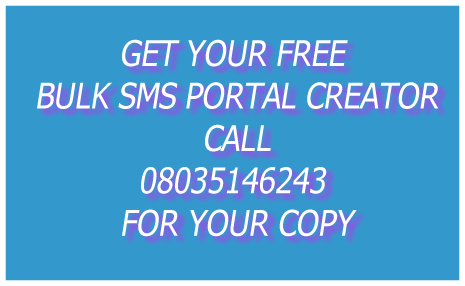
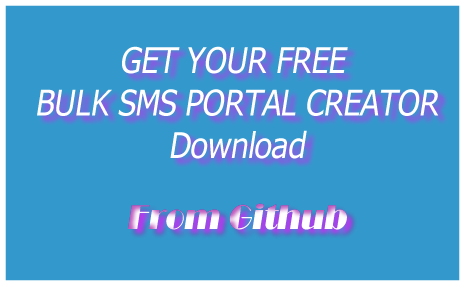
Bug fixing an corrections in the default theme

Changed region(s): [[0.0602, 0.1399, 0.9634, 0.8671]]

diff --git a/app/design/default/template/home/home_index.php b/app/design/default/template/home/home_index.php
@@ -28,9 +28,11 @@
                     <div class="col-lg-6">
                         <h4>Open Bulk SMS</h4>
                         <p class="text-center" style="text-align: center !important;">
+                            <a href="https://github.com/ademuanthony/openbulksms/archive/master.zip">
                             <img class="img-responsive" align="middle"
                                  src="<?php echo OpenSms::getBaseUrl() ?>app/skin/system/open_sms_text.png"
                                  style="border: 1px red solid"/>
+                            </a>
                         </p>
 
                         <h2>The Only Free Bulk SMS site creator</h2>

diff --git a/app/code/main/sms/compose.php b/app/code/main/sms/compose.php
@@ -183,7 +183,7 @@ class Compose extends OpenSms_Abstract_Module_Controller{
                         //1701
                         //check if message sent and deduct
                         //strpos(strtolower($xml), strtolower(OpenSms::getField('Sms_Api_Success_Keyword'))
-                        if(true){
+                        if(strpos(strtolower($xml), strtolower(OpenSms::getField('Sms_Api_Success_Keyword')->value))){
                             $user->Balance -= ($count * OpenSms::getSystemSetting(OpenSms::OPEN_UNITS_PER_SMS));
                             $user->Save();
                             $notification = "Message sent";

diff --git a/app/design/default/template/admin/users/manage.php b/app/design/default/template/admin/users/manage.php
@@ -215,7 +215,7 @@
                             <select class="form-control" name="Type">
                                 <option></option>
                                 <option value="<?php echo OpenSms::OPEN_TRANSACTION_TYPE_CREDIT?>">Credit</option>
-                                <option value="<?php echo OpenSms::OPEN_TRANSACTION_TYPE_DEBIT?>">Credit</option>
+                                <option value="<?php echo OpenSms::OPEN_TRANSACTION_TYPE_DEBIT?>">Debit</option>
                             </select>
                         </div>
                         <div class="form-group">

diff --git a/app/code/main/admin/transactions.php b/app/code/main/admin/transactions.php
@@ -71,6 +71,7 @@ class Transactions extends  OpenSms_Abstract_Module_Controller{
                     OpenSms::redirect($_REQUEST['returnUrl']);
                 }
             }else{
+                $this->setNotification('Transaction saved', 'add_transaction');
                 if(empty($_REQUEST['returnUrl'])) OpenSms::redirectToAction('Index');
                 OpenSms::redirect($_REQUEST['returnUrl']);
             }

diff --git a/app/design/default/template/shared/portal/header.php b/app/design/default/template/shared/portal/header.php
@@ -8,7 +8,7 @@
 ?>
 
 <!-- Logo -->
-<a href="/admin/install" class="logo"><b>Open</b>SMS</a>
+<a href="<?php echo OpenSms::getActionUrl('index', 'dashboard', 'dashboard')?>" class="logo"><b>Open</b>SMS</a>
 <!-- Header Navbar: style can be found in header.less -->
 <nav class="navbar navbar-static-top" role="navigation">
 <!-- Sidebar toggle button-->
